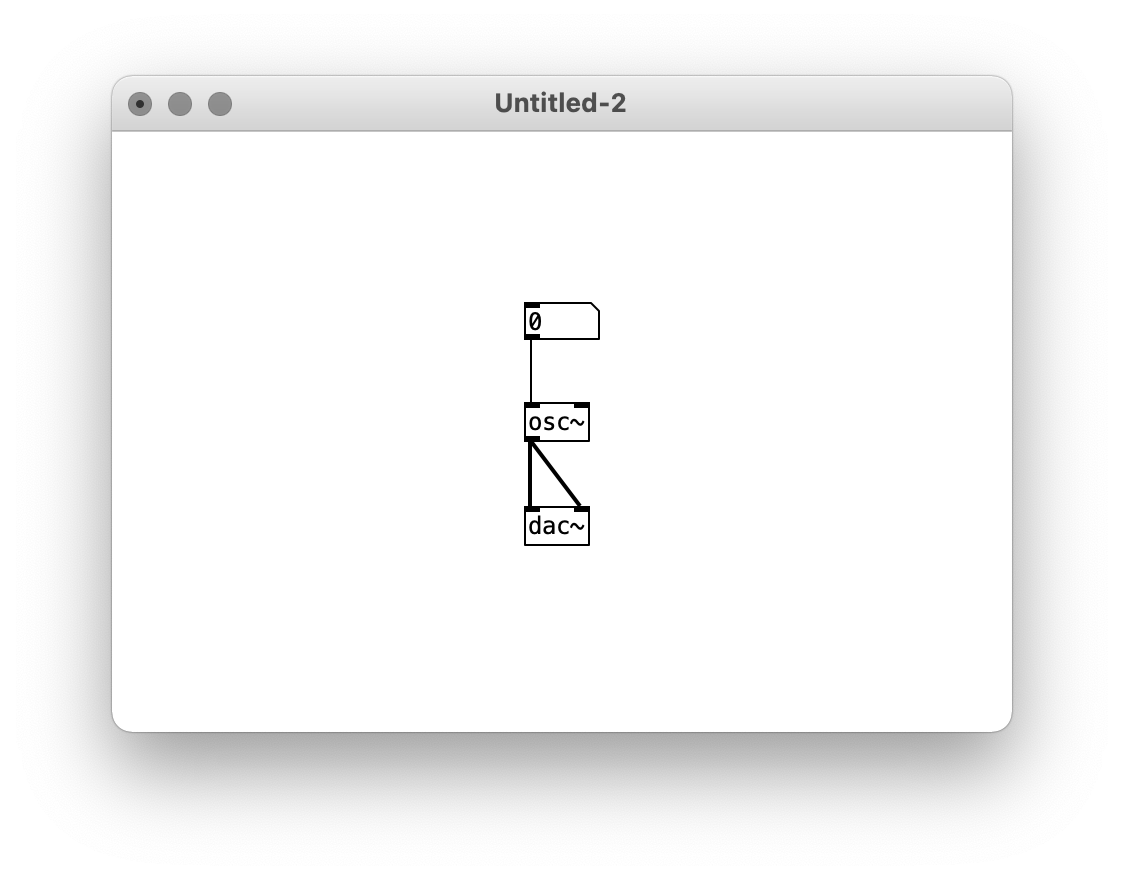
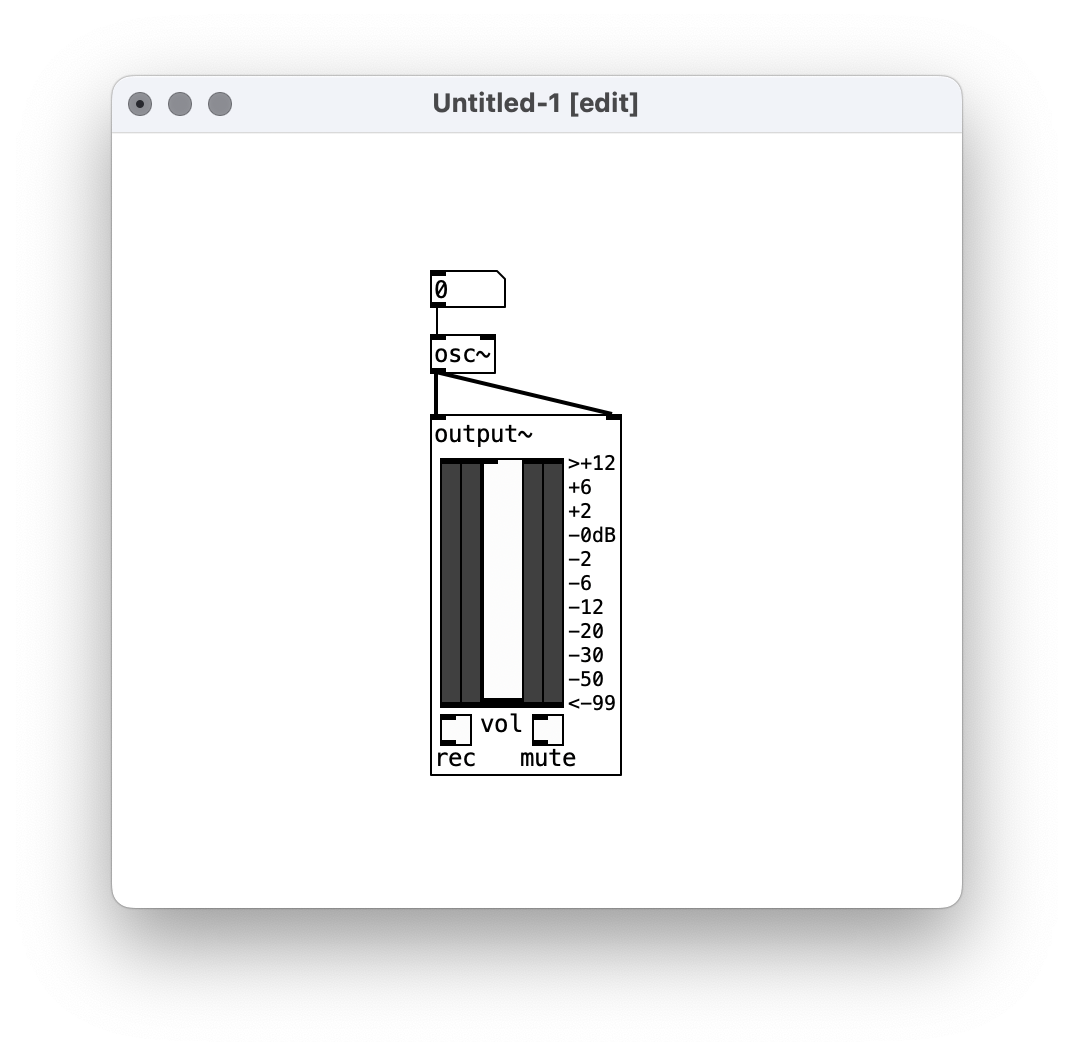
updates to pd lecture

Changed region(s): [[0.0922, 0.0614, 0.9218, 0.8591], [0.3994, 0.2455, 0.5838, 0.7364]]

diff --git a/lectures/06_synthesis.md b/lectures/06_synthesis.md
@@ -18,7 +18,7 @@ Fair warning: I'm also new to Pd (I work in Max if I need to use a control-flow 
 Because this is a complicated topic, I've written up my notes, which I'll share afterwards, so that you'll have a reference.
 
 
-## Installation
+### Installation
 
 Download Pd here: [https://puredata.info/downloads/pure-data](https://puredata.info/downloads/pure-data)
 
@@ -26,7 +26,7 @@ Most of you will want the first option for either Mac or Windows (not the very f
 
 If you get a notification like this:
 <p align="center">
-  <img src="media/06_01_macos_security.png" width=600 /><br />
+  <img src="media/06_01_macos_security.png" width=400 /><br />
 </p>
 
 Click cancel and then go to your System Preferences and choose the "Security" panel. You should have the option to "Open Anyway". Once you do this once, you won't have to do it again.
@@ -34,11 +34,26 @@ Click cancel and then go to your System Preferences and choose the "Security" pa
   <img src="media/06_01_macos_security_2.png" width=600 /><br />
 </p>
 
-Once you have launched the application, but before we do anything with it, we need to do one more thing, which is to add a couple "externals" to the system. Download those here by clicking "Code" and choosing "Download Zip": [https://github.com/brianhouse/piopd](https://github.com/brianhouse/piopd). Navigate to your "Documents" folder, which should now contain a "Pd" folder. Inside "Pd", there should be another folder called "externals". Open the zip file you downloaded, and drag the objects inside into the externals folder.
+Once you have launched the application, but before we do anything with it, we need to do one more thing, which is to add a couple "externals" to the system. Download those here by clicking "Code" and choosing "Download Zip": [https://github.com/brianhouse/piopd](https://github.com/brianhouse/piopd). Navigate to your "Documents" folder, which should now contain a "Pd" folder. Inside "Pd", there should be another folder called "externals". Drag your .zip file inside the externals folder. Now extract the .zip so that you have a folder called "piopd" inside "externals" inside "Pd".
 
 <p align="center">
   <img src="media/06_02_externals.png" width=600 /><br />
 </p>
+
+Finally, go to the Pd menu, select "Preferences" and choose "Path..."
+
+<p align="center">
+  <img src="media/06_02_path_1.png" width=350 /><br />
+</p>
+
+Create a new path entry by clicking "New..." and then navigating to the "piopd" folder we just installed inside externals.
+
+<p align="center">
+  <img src="media/06_02_path_2.png" width=500 /><br />
+</p>
+
+Ok! Now we're set up and good to go.
+
 
 ### Setup
 
@@ -63,14 +78,14 @@ Under "TEST TONES", click the box labeled 80—you should hear a test tone. If n
 
 Finally, go to the "File" menu and select "New". A blank "patcher" window will appear. This is what we'll use to make our Pd "patches", aka sonic systems.
 
-### Basic principles of Pd
+## Basic principles of Pd
 
-#### Placement
+### Placement
 
 A blank white canvas is both intimidating and filled with possibility. Under the "Put" menu we see the different types of things that we can add to our patch. Rather than select one, note that there are keyboard shortcuts for each option: for example, you can create an "object" by typing Command-1 (Control-1 on Windows and Linux).
 
 <p align="center">
-  <img src="media/06_04_pd_put.png" width=600 /><br />
+  <img src="media/06_04_pd_put.png" width=200 /><br />
 </p>
 
 Leave the menu, and type Command-1. When you move your cursor over the patch, you'll see a dashed blue rectangle follow it. Click somewhere to place the object, and you'll see a flashing cursor.
@@ -93,7 +108,7 @@ Next, let's create a Number using Command/Control-3. Put it above `print`, and c
 
 Note that a Number box, which holds a number, is distinguished from an object box by the bevel on its corner.
 
-#### Connections
+### Connections
 
 Also note the tabs on the boxes, one on the top of `print` and one each on the top and bottom of number. These are connection points. If you put your cursor over the bottom "outlet" of the Number box, it will turn into a circle. Click and drag it to the "inlet" on the top of `print` to make a connection.
 
@@ -103,7 +118,7 @@ Also note the tabs on the boxes, one on the top of `print` and one each on the t
 
 Once you have a connection, you can remove it by moving the cursor over the line until it turns into an "X". If you click, it will turn the line blue—you can now type "Delete" to remove it. Make a connection, delete it, and make it again to get familiar with how it works.
 
-#### Switching between Edit and Playback mode
+### Switching between Edit and Playback mode
 
 Notice that at the top of the patcher window, there is the indicator "[edit]". This means that we are in editing mode, and our mouse clicks are interpreted as intending to alter the patch. To change to playback mode, go to the "Edit" menu and unselect Edit Mode, or simply type Command/Control-E. "[edit]" will disappear and you can no longer make connections between boxes (if you add an object, the patcher will automatically revert back to edit mode).
 
@@ -151,7 +166,7 @@ Instead of always using both inlets, you can add a default value as a parameter 
   <img src="media/06_06_pd_math_2.png" width=600 /><br />
 </p>
 
-#### Audio signals
+### Audio signals
 
 Audio signals flow a little differently than messages, because they are continuous—if there is a connection between two audio objects, data is always flowing.
 
@@ -163,9 +178,7 @@ Add an object box to a new patch, and type `osc~`. This is a sine-wave oscillato
   <img src="media/06_07_pd_osc.png" width=600 /><br />
 </p>
 
-Next, connect a number box upstream, and a `dac~` object downstream. Connect the outlet of `osc~` to both inlets on `dac~`, which is a "digital-analog converter" that interfaces with your sound card (the two inlets are for the right and left channels). Note that you can distinguish audio connections from control connections by their thicker lines.
-
-Because `dac~` just sends things straight to your speakers without any chance to control the volume, in the interest of protecting our ears, I made an object called `output~` that we're going to use instead. `output~` has a volume control, a mute button, and it also lets you record a wave file: click the checkbox on to start recording, and again to turn it off. The file should show up in your Pd folder (does this work for Windows users?).
+Next, connect a number box upstream to both inlets of an `output~` object downstream (the two inlets are for the right and left channels). Note that you can distinguish audio connections from control connections by their thicker lines. `output~` is a digital analog converter—it will make our signal into sound. It has a volume control, a mute button, and it also lets you record a wave file: click the checkbox on to start recording, and again to turn it off. The file should show up in your Pd folder (does this work for Windows users?).
 
 <p align="center">
   <img src="media/06_08_pd_audio.png" width=600 /><br />
@@ -201,7 +214,7 @@ Congratulations, you've made your first synthesizer! (Make sure to save it).
 
 All synthesis starts with oscillators. `osc~` is a perfect sine wave that oscillates between -1 and 1. However, there are other shapes that we can use. For example, replace `osc~` with `saw~`, `sqr~`, or `tri~` in your patch and play with the results (these are also externals we installed—look inside those files to see how they are made).
 
-## Additive Synthesis
+### Additive Synthesis
 
 Simple oscillators can be added together, thus becoming the building blocks of much more complex waveforms.
 
@@ -213,7 +226,7 @@ Using the `+~` object (notice the tilde, which indicates that we are adding audi
 
 Try making two oscillators with very close frequencies—you'll hear "beating", which is another implicit oscillation at a frequency that is the difference between the two initial frequencies. Note that dragging on the number boxes in playback mode will increase or decrease by an integer value, but holding shift down will move the decimals.
 
-## AM Synthesis and LFOs
+### AM Synthesis and LFOs
 
 Similarly, multiplication creates even wilder waveforms by combining two or more simple oscillators—essentially, one oscillator modulates the amplitude (volume) of the other. Traditionally, `phasor~` is used as a modulator. It is similar to `saw~`, but instead moving between the full signal range of -1 to 1, it oscillates from 0 to 1. When multiplied with the signal from `osc~`, this becomes an amplitude adjustment—from zero volume to full (1) volume.
 
@@ -227,10 +240,10 @@ If you set the `phasor~` down close to 20 Hz, you'll notice you get a pulsation 
   <img src="media/06_11_tremolo_.png" width=600 /><br />
 </p>
 
-Using `cyc~` in this way is known as a Low-Frequency Oscillator, or LFO. Even though it cannot be heard directly, LFOs can change the character of other sounds.
+Using `cyc~` in this way is known as a Low-Frequency Oscillator, or LFO. Even though it cannot be heard directly, LFOs can change the character of other sounds. They can also be used to control larger changes in a patch over time.
 
 
-## FM Synthesis
+### FM Synthesis
 
 While AM synthesis changes the amplitude of another signal, Frequency Modulation (FM) synthesis changes the frequency instead. Thus far, we have used static values for the frequencies of our oscillators, other than varying them manually with a Number box or slider. However, we can have another oscillator drive this change automatically instead.
 

diff --git a/NEXT.md b/NEXT.md
@@ -11,20 +11,49 @@ statements in crit examples should be sound art, not media art
 For those of you that still cannot load .m4a files into Audacity, you'll need to install the FFMPEG libraries for Mac (https://lame.buanzo.org/lame_64bit_osx.pkg) or PC (https://lame.buanzo.org/ffmpeg-win-2.2.2.zip). Do this and then restart Audacity, and the import should work. If not, let me know and we can work through it during office hours.
 
 
+#### Soundscape
+
+what it becomes is an exercise in narrative, but we haven't prepped narrative at all. so either we do that, or the terms of the assignment have to change.
+
+if this gets broken out to become a project in Sound + Space, make it a strict 3min _loop_ that's four channel, and start it at a random place. ie, narrative goes away.
+
 
 #### Pd
 
-clip~ and distortion should come earlier
-
-need to cover "delay" in sequencing. move it out of the live_input part
+##### synthesis
 
 replace `dac~` with `output~` in synthesis lecture
 
-emphasize `loadbang` earlier
+clip~ and distortion should come earlier
 
-missing help files for some objects
+
+##### sequencing
+
+need to cover "delay" in sequencing. move it out of the live_input part
+
+
+##### sampling
+
+missing help files for audioclip~, sampler~
+
+
+##### live input
+
+missing help files for peak~, pitch~
+
+
+##### sensors
 
 add comport install to sensors lecture
+
+missing help files for smoother
+
+
+#####
+
+other help files: unsig~, mute~, piano, scope~
+
+
 
 
 ### future v1
@@ -52,6 +81,8 @@ replace lectures with building activities. ie, make a turntable. make a spatial 
 - digital recording and audacity -- something about sampling/remixing etc, ie source material
 
 do we ever use the recorders? or a computer?
+
+this is "Sound as Material"
 
 
 
